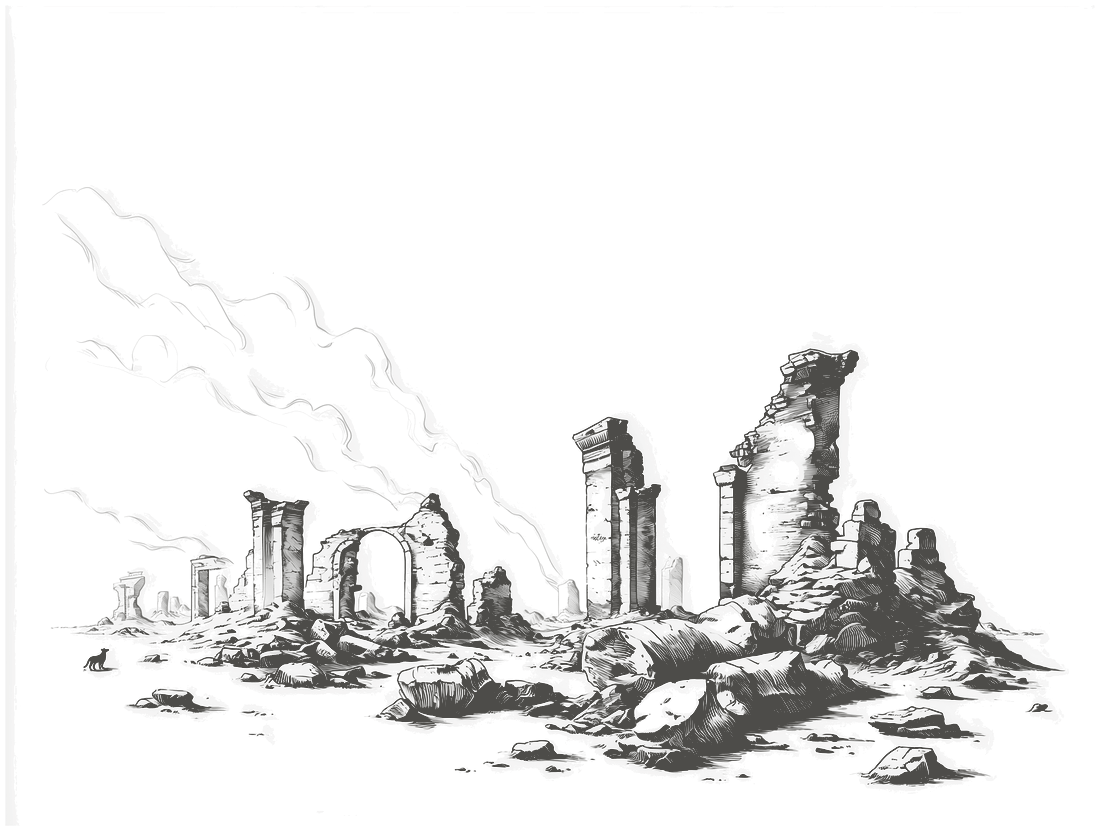
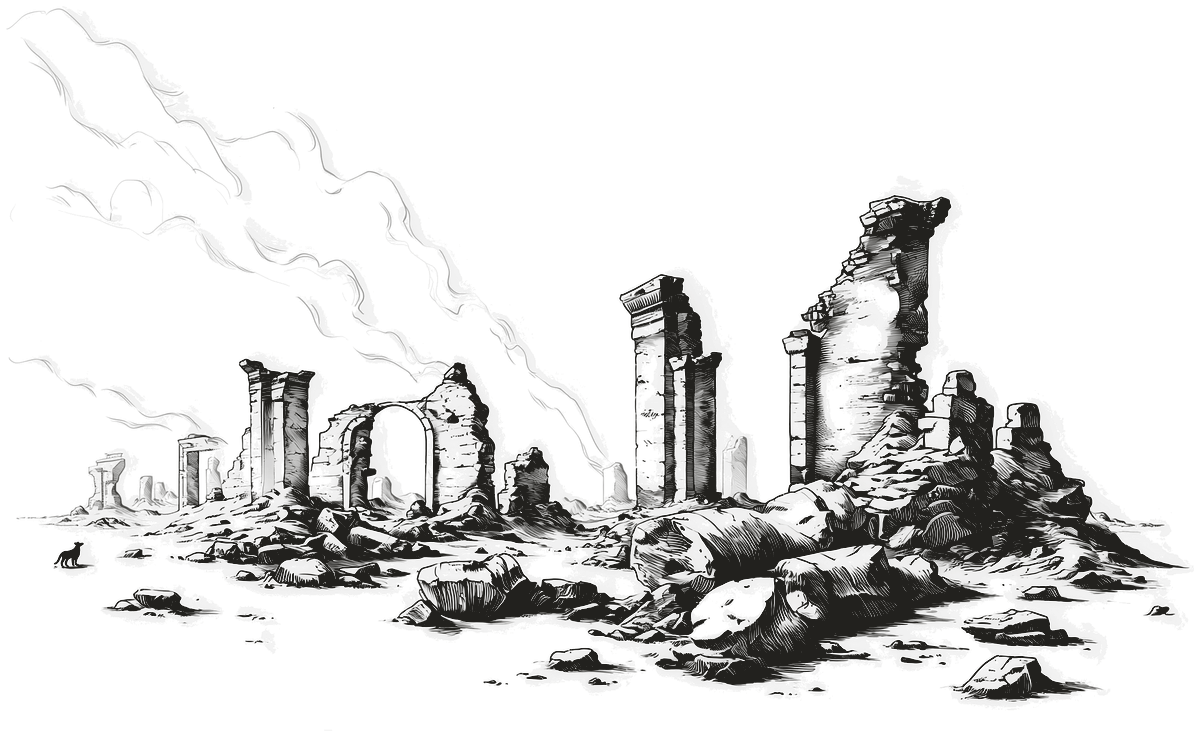
Ôter la barre noire des gravures, et les poser comme celle du Polyglotte
Trois choses, et la première était un vrai défaut.

LA BARRE NOIRE. Les sources de Midjourney portent un liseré sombre sur
leur bord : 243 de luminance contre 247 à 249 pour le papier. Il passait
sous le seuil de normalisation, devenait donc de l'encre, et se voyait
comme une bande d'une quinzaine de colonnes à alpha 13-20 le long du bord
gauche. La tour de Babel y échappait, son bord étant à 248 — d'où un
défaut sur deux planches et pas sur la troisième. Le pourtour de la
source est désormais rogné de 32 px avant tout traitement.

Le rognage change au passage la composition, et pour le mieux : la barre
arrêtait le détourage des marges, qui n'ôtait donc rien. Le désert perd
son ciel vide et devient un vrai panorama.

LA MESURE. La page de recherche traitait sa gravure comme un cul-de-lampe
posé en haut de la colonne, où elle flottait. Or sur PC cette colonne
fait toute la hauteur sous la navbar et se trouve entièrement vide,
l'intitulé, la recherche et les onglets vivant dans le volet de gauche :
c'est un écran d'attente, comme le Polyglotte. Elle en reprend donc la
mesure, l'opacité et l'invite en sérif italique, et se centre dans la
hauteur. En mobile la zone n'a pas de hauteur définie et le groupe
reprend des marges.

Les ruines fumantes suivent, à ceci près que leur légende reste au tiers
supérieur du bloc, comme la charte le demande pour cette page.

L'ENCRE. Les trois planches partagent celle de la tour de Babel ruinée,
[…]

diff --git a/app/admin/illustrations/inventaire.ts b/app/admin/illustrations/inventaire.ts
@@ -118,8 +118,8 @@ export const ILLUSTRATIONS: Illustration[] = [
     emploi: 'Tient la page de recherche avant qu’on ait lancé la moindre requête.',
     lieu: { href: '/recherche', label: 'Recherche', repere: 'Au centre, sous la barre de recherche, tant qu’aucune requête n’est lancée.' },
     source: 'app/recherche/RechercheClient.tsx',
-    traitement: { opacite: 0.5, ornement: true, largeur: 'au plus 28rem et 76 %, bornée en hauteur' },
-    note: 'A remplacé les cristaux le 2026-08-26. La planche est LARGE là où le cul-de-lampe était vertical : elle prend donc plus de mesure, faute de quoi le paysage se lirait en timbre. Deux reprises au passage, les mêmes que sur la carapace : le mix-blend-mode était mort, la planche étant détourée, et la largeur de 300 px, absolue, ne suivait pas la police racine. ⚠ Le papier de ce dessin est à 247, et le détoureur maison, qui échantillonne les quatre COINS, prenait les 85 % de papier pour une encre très pâle — 86 % de partiels pour 7 % de transparents. Papier ramené au blanc d’après son niveau DOMINANT avant détourage, la planche rend 80,4 % de transparents pour 12,5 % de partiels. Encre mesurée et reposée à la luminance 65. Elle pèse 239 Ko contre 388 pour les cristaux.',
+    traitement: { opacite: 0.92, ornement: true, largeur: 'au plus 51rem et 96 %, bornée en hauteur' },
+    note: 'A remplacé les cristaux le 2026-08-26. Elle reprend la pose de la tour de Babel sur le Polyglotte, et pour la même raison : sur PC cette colonne fait TOUTE la hauteur sous la navbar et se trouve entièrement vide, l’intitulé, la recherche et les onglets vivant dans le volet de gauche. C’est donc un écran d’attente et non un blanc de pied de page — même mesure, même opacité, même encre, même invite en sérif italique. Posée d’abord comme un cul-de-lampe discret en haut de la colonne, elle y flottait. ⚠ Le centrage vertical vient du flux, la zone étant de hauteur définie sur PC ; en mobile elle ne l’est pas et le groupe reprend des marges. Deux reprises sur l’ancienne pose : le mix-blend-mode était mort, la planche étant détourée, et la largeur de 300 px, absolue, ne suivait pas la police racine.',
   },
 
   {
@@ -160,8 +160,8 @@ export const ILLUSTRATIONS: Illustration[] = [
     emploi: 'Dit qu’une traduction ne comporte pas le livre demandé. Des ruines plutôt qu’un fleuron : l’ornement devait dire « il n’y a rien ici », non « fin de chapitre ».',
     lieu: { href: '/?livre=MAT&chapitre=1&trad=TR0005', label: 'Matthieu 1 dans la Septante', repere: 'Au tiers supérieur de la colonne de lecture : la Septante ne comporte aucun livre du Nouveau Testament.' },
     source: 'app/components/TexteBible.tsx',
-    traitement: { opacite: 0.42, ornement: true, largeur: 'au plus 22rem et 76 %, bornée en hauteur' },
-    note: 'A remplacé la planche carrée le 2026-08-26. C’est un PANORAMA : elle prend donc plus de mesure pour que les ruines gardent leur poids, son ciel de fumée occupant à lui seul le cinquième supérieur du cadre. La légende a perdu sa marge NÉGATIVE, qui existait parce que la planche carrée laissait du blanc sous des ruines posées haut : celle-ci descend au ras du sol, et le texte serait venu se poser dans les pierres. ⛔ Trois reprises que la charte réclamait : la pose passait par Image de Next, dont l’optimiseur aplatit parfois l’alpha sur du blanc et fait reparaître le fond ; le mix-blend-mode était mort, la planche étant détourée ; et la largeur de 190 px, absolue, ne suivait pas la police racine. Papier ramené au blanc d’après son niveau dominant, à 249 pour cette planche : 76,1 % de transparents, 17 % de partiels, la fumée en étant seule cause. Encre mesurée et reposée à la luminance 76. Elle pèse 223 Ko contre 423.',
+    traitement: { opacite: 0.92, ornement: true, largeur: 'au plus 34rem et 92 %, bornée en hauteur' },
+    note: 'A remplacé la planche carrée le 2026-08-26. Mesure, intensité et encre sont celles de la tour de Babel sur le Polyglotte : c’est un écran d’attente, non un blanc de pied de page, et la gravure doit s’y voir. ⚠ La légende reste au TIERS SUPÉRIEUR du bloc (charte) et non centrée dans le vide : c’est la seule chose que cette pose ne reprenne pas du Polyglotte. Elle a aussi perdu la marge NÉGATIVE qui la remontait, laquelle n’existait que parce que la planche carrée laissait du blanc sous des ruines posées haut. ⛔ Trois reprises que la charte réclamait : la pose passait par Image de Next, dont l’optimiseur aplatit parfois l’alpha sur du blanc et fait reparaître le fond ; le mix-blend-mode était mort, la planche étant détourée ; et la largeur de 190 px, absolue, ne suivait pas la police racine.',
   },
 
   {

diff --git a/app/recherche/RechercheClient.tsx b/app/recherche/RechercheClient.tsx
@@ -1041,22 +1041,30 @@ export default function RechercheClient() {
           <div ref={zoneResultatsRef} style={{ flex:1, minHeight: mobile ? '40vh' : undefined, overflowY: mobile ? 'visible' : 'auto', scrollbarGutter:'stable', padding: (done && onglet==='polyglotte' && versetsRes.length > 0) ? '0 22px 4px' : '6px 22px 4px' }}>
 
             {!done && !loading && (
-              <div style={{ display:'flex', flexDirection:'column', alignItems:'center', marginTop:'70px' }}>
+              <div style={{ display:'flex', flexDirection:'column', alignItems:'center', justifyContent:'center',
+                ...(mobile ? { marginTop:'40px', marginBottom:'24px' } : { height:'100%' }) }}>
                 {/* Un désert et une fosse tiennent la page tant qu'aucune requête n'est lancée.
-                    La planche est LARGE là où le cul-de-lampe qu'elle remplace était vertical :
-                    elle prend donc plus de mesure, faute de quoi le paysage se lirait en timbre.
 
-                    ⛔ Plus de `mix-blend-mode` : la planche est DÉTOURÉE, elle n'a plus de fond
-                    blanc à fondre dans le papier, et l'opacité posée sur la même image créait de
-                    toute façon un contexte d'empilement qui annulait le mélange (charte).
+                    La pose est celle de la tour de Babel sur le Polyglotte, et pour la même
+                    raison : sur PC cette colonne fait TOUTE la hauteur sous la navbar et se
+                    trouve entièrement vide, l'intitulé, la recherche et les onglets vivant dans
+                    le volet de gauche. C'est donc un écran d'attente, non un blanc de pied de
+                    page — d'où la même mesure, la même opacité et la même invite en sérif
+                    italique. Un cul-de-lampe discret posé en haut de la colonne y flottait.
 
-                    ⛔ Aucune LARGEUR posée, deux MAXIMA seulement. Le `min(300px, 56%)` d'avant
-                    était une valeur absolue, qui ne suivait pas la police racine : la gravure
-                    rapetissait à mesure que l'écran s'agrandissait. Le plafond de hauteur ne sert
-                    que les fenêtres basses, où il garde l'invite au-dessus du pli. */}
+                    ⚠ Le centrage vertical vient du flux, la zone étant de hauteur définie sur
+                    PC. En MOBILE elle ne l'est pas (minHeight en vh, débordement visible) : un
+                    « height: 100 % » s'y effondrerait, et le groupe reprend donc des marges.
+
+                    ⛔ Aucune LARGEUR posée, deux MAXIMA seulement (charte). Le plafond de hauteur
+                    est l'autre moitié du réglage et vaut pour les écrans BAS : la planche est
+                    large de 1600 sur 780, donc à 816 px elle en ferait 398 de haut, ce qui ne
+                    tient plus sous une fenêtre de 720 px. Les deux dimensions restant
+                    automatiques, le navigateur applique les maxima l'un après l'autre en tenant
+                    le rapport (CSS 2.1, § 10.4). */}
                 <img className="cs-ornement" src="/ornements/desert-fosse.png" alt="" aria-hidden="true"
-                  style={{ maxWidth:'min(28rem, 76%)', maxHeight:'calc(100dvh - 3.5rem - 18rem)', opacity:0.5, marginBottom:'22px' }} />
-                <p style={{ fontSize:'0.8125rem', color:'var(--cs-texte-faible)', fontStyle:'italic', letterSpacing:'0.02em' }}>Lancez une recherche</p>
+                  style={{ maxWidth:'min(51rem, 96%)', maxHeight:'calc(100dvh - 3.5rem - 9rem)', opacity:0.92, marginBottom:'16px' }} />
+                <p style={{ fontFamily:"var(--font-source-serif), Georgia, serif", fontSize:'0.9375rem', fontStyle:'italic', color:'var(--cs-texte-doux)', letterSpacing:'0.02em', margin:0 }}>Lancez une recherche</p>
               </div>
             )}
             {loading && (

diff --git a/app/components/TexteBible.tsx b/app/components/TexteBible.tsx
@@ -577,6 +577,13 @@ export default function TexteBible({
               {/* Des ruines fumantes plutôt qu'un fleuron : l'ornement disait « fin de
                   chapitre », là où il faut dire « il n'y a rien ici ».
 
+                  La mesure et l'intensité sont celles de la tour de Babel sur le Polyglotte :
+                  c'est un écran d'attente, non un blanc de pied de page, et la gravure doit s'y
+                  voir. Elle partage d'ailleurs son encre, prise pour référence de la famille.
+
+                  ⚠ La légende reste au TIERS SUPÉRIEUR du bloc (charte), et non centrée dans
+                  le vide : c'est la seule chose que cette pose ne reprend pas du Polyglotte.
+
                   ⛔ En img, jamais en Image de Next : à certaines largeurs l'optimiseur rend
                   un PNG à trois canaux, la couche alpha est aplatie sur du blanc et le fond
                   réapparaît. Le défaut est intermittent, donc facile à croire corrigé.
@@ -586,12 +593,11 @@ export default function TexteBible({
                   toute façon un contexte d'empilement qui annulait le mélange (charte).
 
                   ⛔ Aucune LARGEUR posée, deux MAXIMA seulement. Les 190 px d'avant étaient une
-                  valeur absolue, qui ne suivait pas la police racine. La planche est en outre un
-                  PANORAMA là où la précédente était carrée : elle prend donc plus de mesure pour
-                  que les ruines gardent leur poids, son ciel de fumée occupant à lui seul le
-                  cinquième supérieur du cadre. */}
+                  valeur absolue, qui ne suivait pas la police racine. Le plafond de hauteur
+                  vaut pour les fenêtres BASSES : la planche est un panorama, et sa hauteur y
+                  chasserait la légende sous le pli. */}
               <img className="cs-ornement" src="/ornements/ruines-colonnades.png" alt="" aria-hidden="true"
-                style={{ maxWidth: 'min(22rem, 76%)', maxHeight: '34vh', opacity: 0.42 }} />
+                style={{ maxWidth: 'min(34rem, 92%)', maxHeight: 'calc(100dvh - 3.5rem - 14rem)', opacity: 0.92 }} />
               {/* ⚠ Plus de marge NÉGATIVE sous la gravure. Elle existait parce que la planche
                   carrée laissait du blanc sous des ruines posées haut ; celle-ci descend au ras
                   du sol, et le texte viendrait se poser dans les pierres. */}
